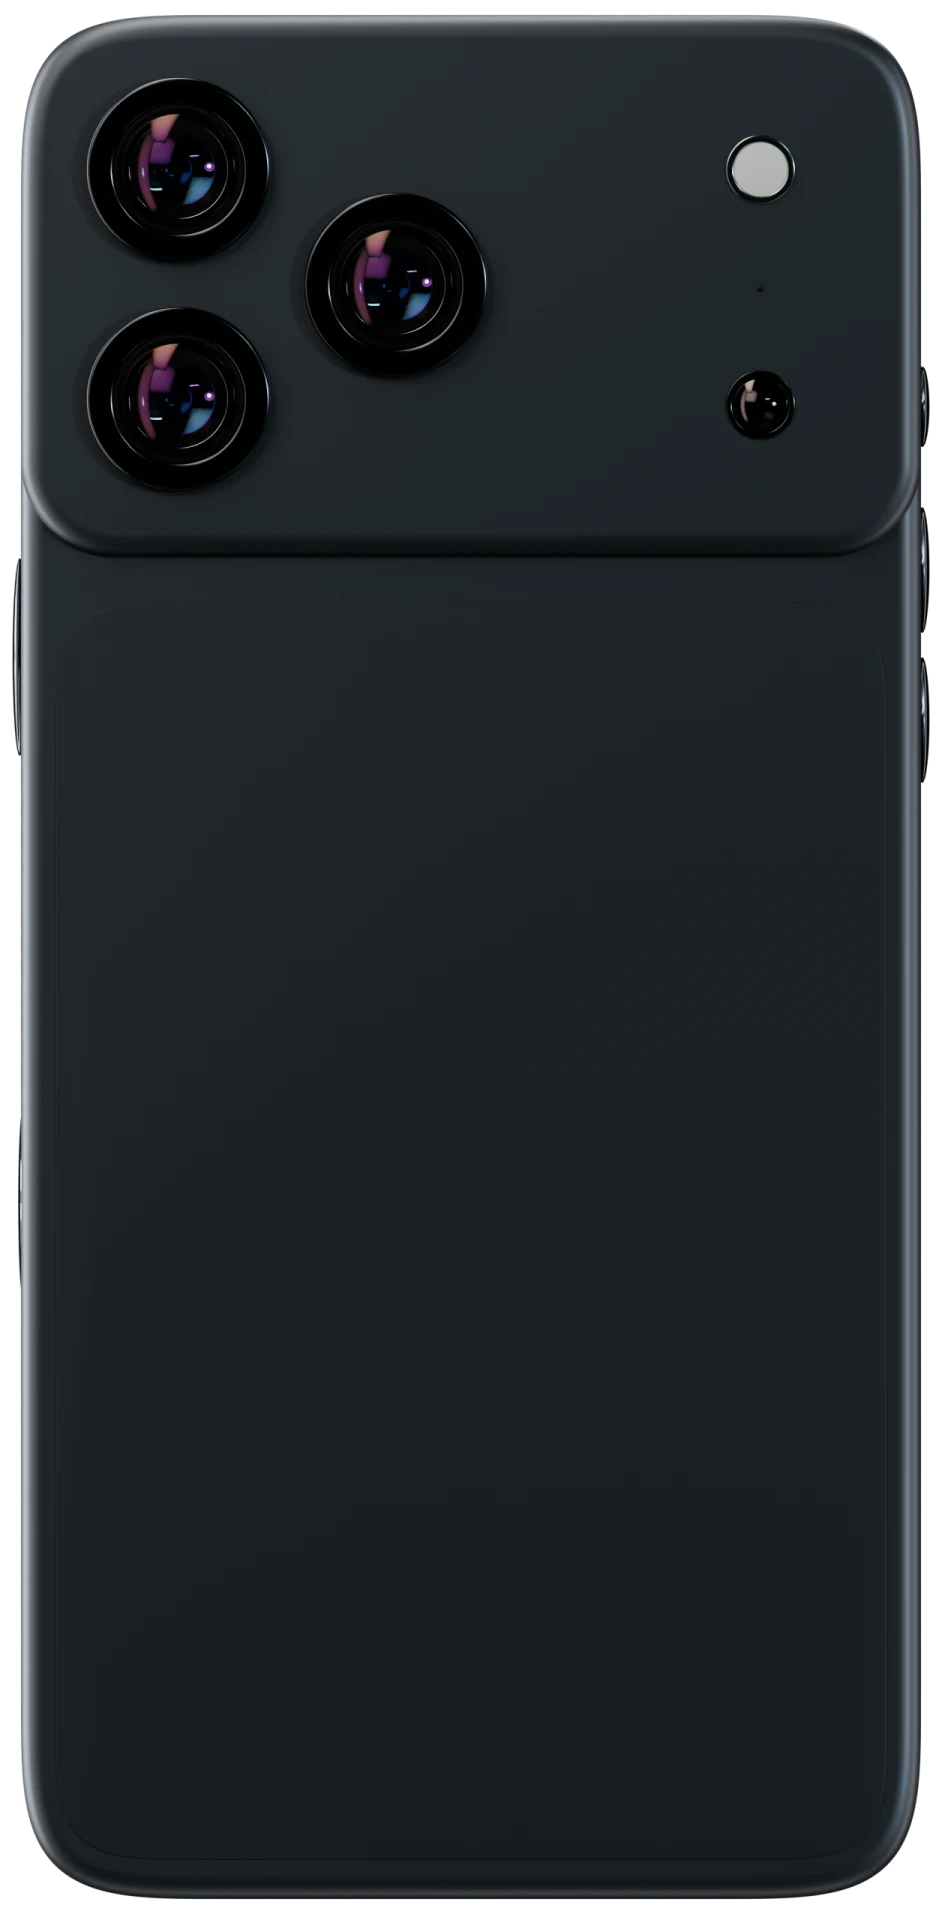
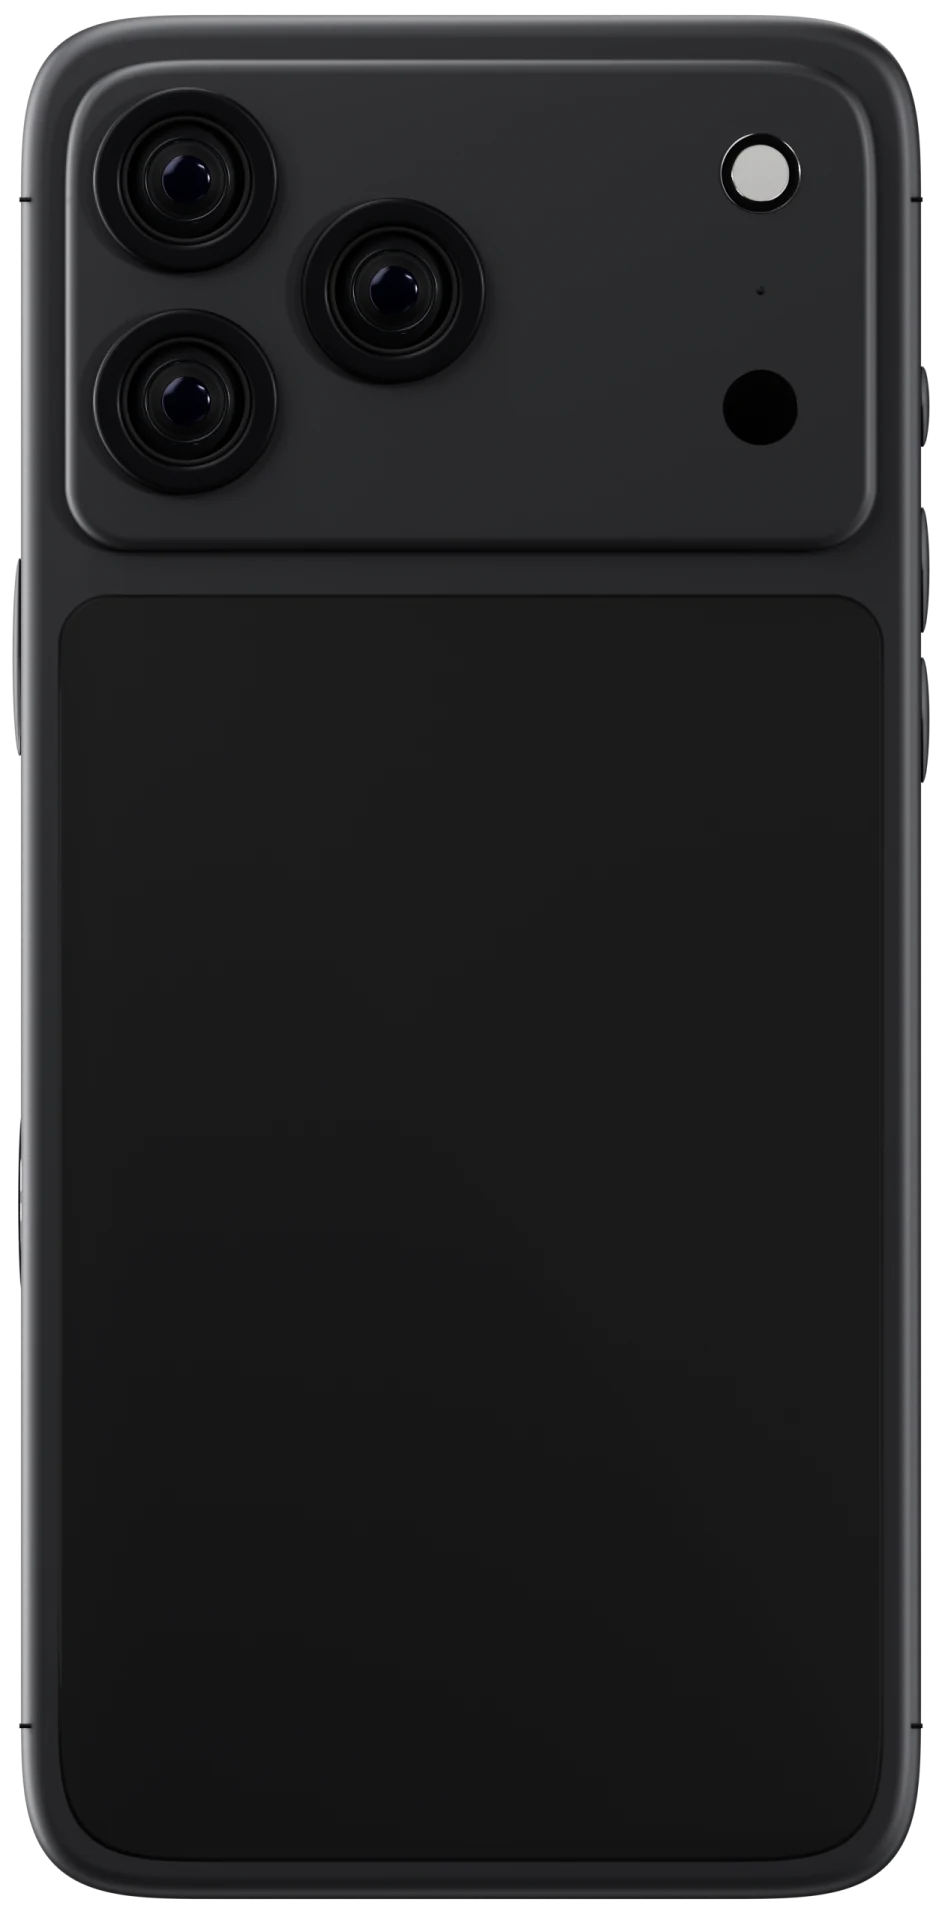
Demo phone: the back rebuilt against Apple's photo of the black iPhone 18 Pro - the plateau and the glass panel sit inside a rim of the frame, charcoal aluminium against a deeper black glass, matte lens rings, antenna lines; our mark moved up (owner 27/10)

diff --git a/css/phone.css b/css/phone.css
@@ -638,7 +638,7 @@ p.k-center { display: block; margin: 0; }
 /* ═══ המכשיר המרונדר (בלנדר, 27/10/2026) — במבנה של אייפון 18 פרו מקס בשחור ═══════════════
    הבעלים: "תסתכל איך אייפון פרו מקס נראה - תעשה אותו באותו מבנה" · "אייפון 18 פרו מקס" · "תסתכל על הצבע השחור".
    הפרופורציות מהמפרט של אפל (78.0 × 163.4 מ"מ) → 300 × 628. המסגרת, הזכוכית, האי בראש המסך, הלחצנים והגב
-   הם תמונות (המקור: ~/FitManage-design/2026-10-site-redesign/blender/phone3.py), עם 7/5 פיקסלים בכל צד
+   הם תמונות (המקור: ~/FitManage-design/2026-10-site-redesign/blender/phone4.py), עם 7/5 פיקסלים בכל צד
    בשביל הלחצנים. חלון המסך בתמונה שקוף, והמסך החי יושב מתחתיו; פינות המסך החי קטנות מפינות החלון,
    כדי שהמסגרת תסתיר את הקצה שלו בכל זווית. על הגב — הסמל שלנו, במקום שבו יושב הסמל במכשיר. */
 .dp {

diff --git a/index.html b/index.html
@@ -26,7 +26,7 @@
   <link rel="preload" as="font" type="font/woff2" href="assets/fonts/fredoka-600-hebrew.woff2" crossorigin>
   <link rel="stylesheet" href="assets/fonts/fonts.css">
   <link rel="stylesheet" href="css/style.css?v=23">
-  <link rel="stylesheet" href="css/phone.css?v=18">
+  <link rel="stylesheet" href="css/phone.css?v=19">
   <link rel="stylesheet" href="css/intro.css?v=1">
   <!-- הפתיח: נקבע לפני הציור הראשון, כדי שהאתר לא יהבהב לפני הלוגו. עם הפחתת תנועה, קישור לעוגן או חזרה לאמצע הדף — בלי פתיח. -->
   <script>

diff --git a/README.md b/README.md
@@ -39,7 +39,7 @@ GitHub Pages מגיש את `style.css` עם מטמון של 10 דקות, ואי 
 שבחמשת הדפים (`index`, `support`, `accessibility`, `404`,
 `invite/index`). הכתובת משתנה, והדפדפן נאלץ להוריד מחדש.
 אותו כלל ל-`js/main.js` ול-`js/demo.js` (מקושרים רק מדף הבית): `main.js?v=N`, `demo.js?v=N`.
-המצב כרגע: `style.css?v=23` (בכל הדפים, כולל `invite/`), `phone.css?v=18`, `main.js?v=11`, `demo.js?v=24`, `intro.css?v=1`, `intro.js?v=1` (27/10/2026, ענף `design/site-v2`: הפתיח, המכשיר המרונדר).
+המצב כרגע: `style.css?v=23` (בכל הדפים, כולל `invite/`), `phone.css?v=19`, `main.js?v=11`, `demo.js?v=24`, `intro.css?v=1`, `intro.js?v=1` (27/10/2026, ענף `design/site-v2`: הפתיח, המכשיר המרונדר).
 
 ## הפתיח — `css/intro.css` + `js/intro.js` (27/10/2026, רק בדף הבית)
 
@@ -53,8 +53,8 @@ GitHub Pages מגיש את `style.css` עם מטמון של 10 דקות, ואי 
 
 המסגרת, הזכוכית, האי בראש המסך, הלחצנים והגב הם שתי תמונות שרונדרו בבלנדר, במבנה של אייפון 18 פרו מקס
 בשחור (הבעלים, 27/10): `assets/phone-front.webp` (חלון המסך שקוף; המסך החי יושב מתחתיו) ו-`assets/phone-back.webp`.
-המקור, וההרצה מחדש: `~/FitManage-design/2026-10-site-redesign/blender/phone3.py`
-(`blender -b -P phone3.py -- front|back <out.png> 4 384`, ואז `cwebp -q 90 -alpha_q 100 -resize 942 1914`).
+המקור, וההרצה מחדש: `~/FitManage-design/2026-10-site-redesign/blender/phone4.py`
+(`blender -b -P phone4.py -- front|back <out.png> 4 384`, ואז `cwebp -q 90 -alpha_q 100 -resize 942 1914`).
 `.dp` הוא 300 × 628 (78.0 × 163.4 מ"מ), המסך 282 × 610; התמונה רחבה ב-7/5 פיקסלים מכל צד בשביל הלחצנים.
 
 ## הדמו האינטראקטיבי בטלפונים — `js/demo.js` + `css/phone.css` (09/09/2026)
